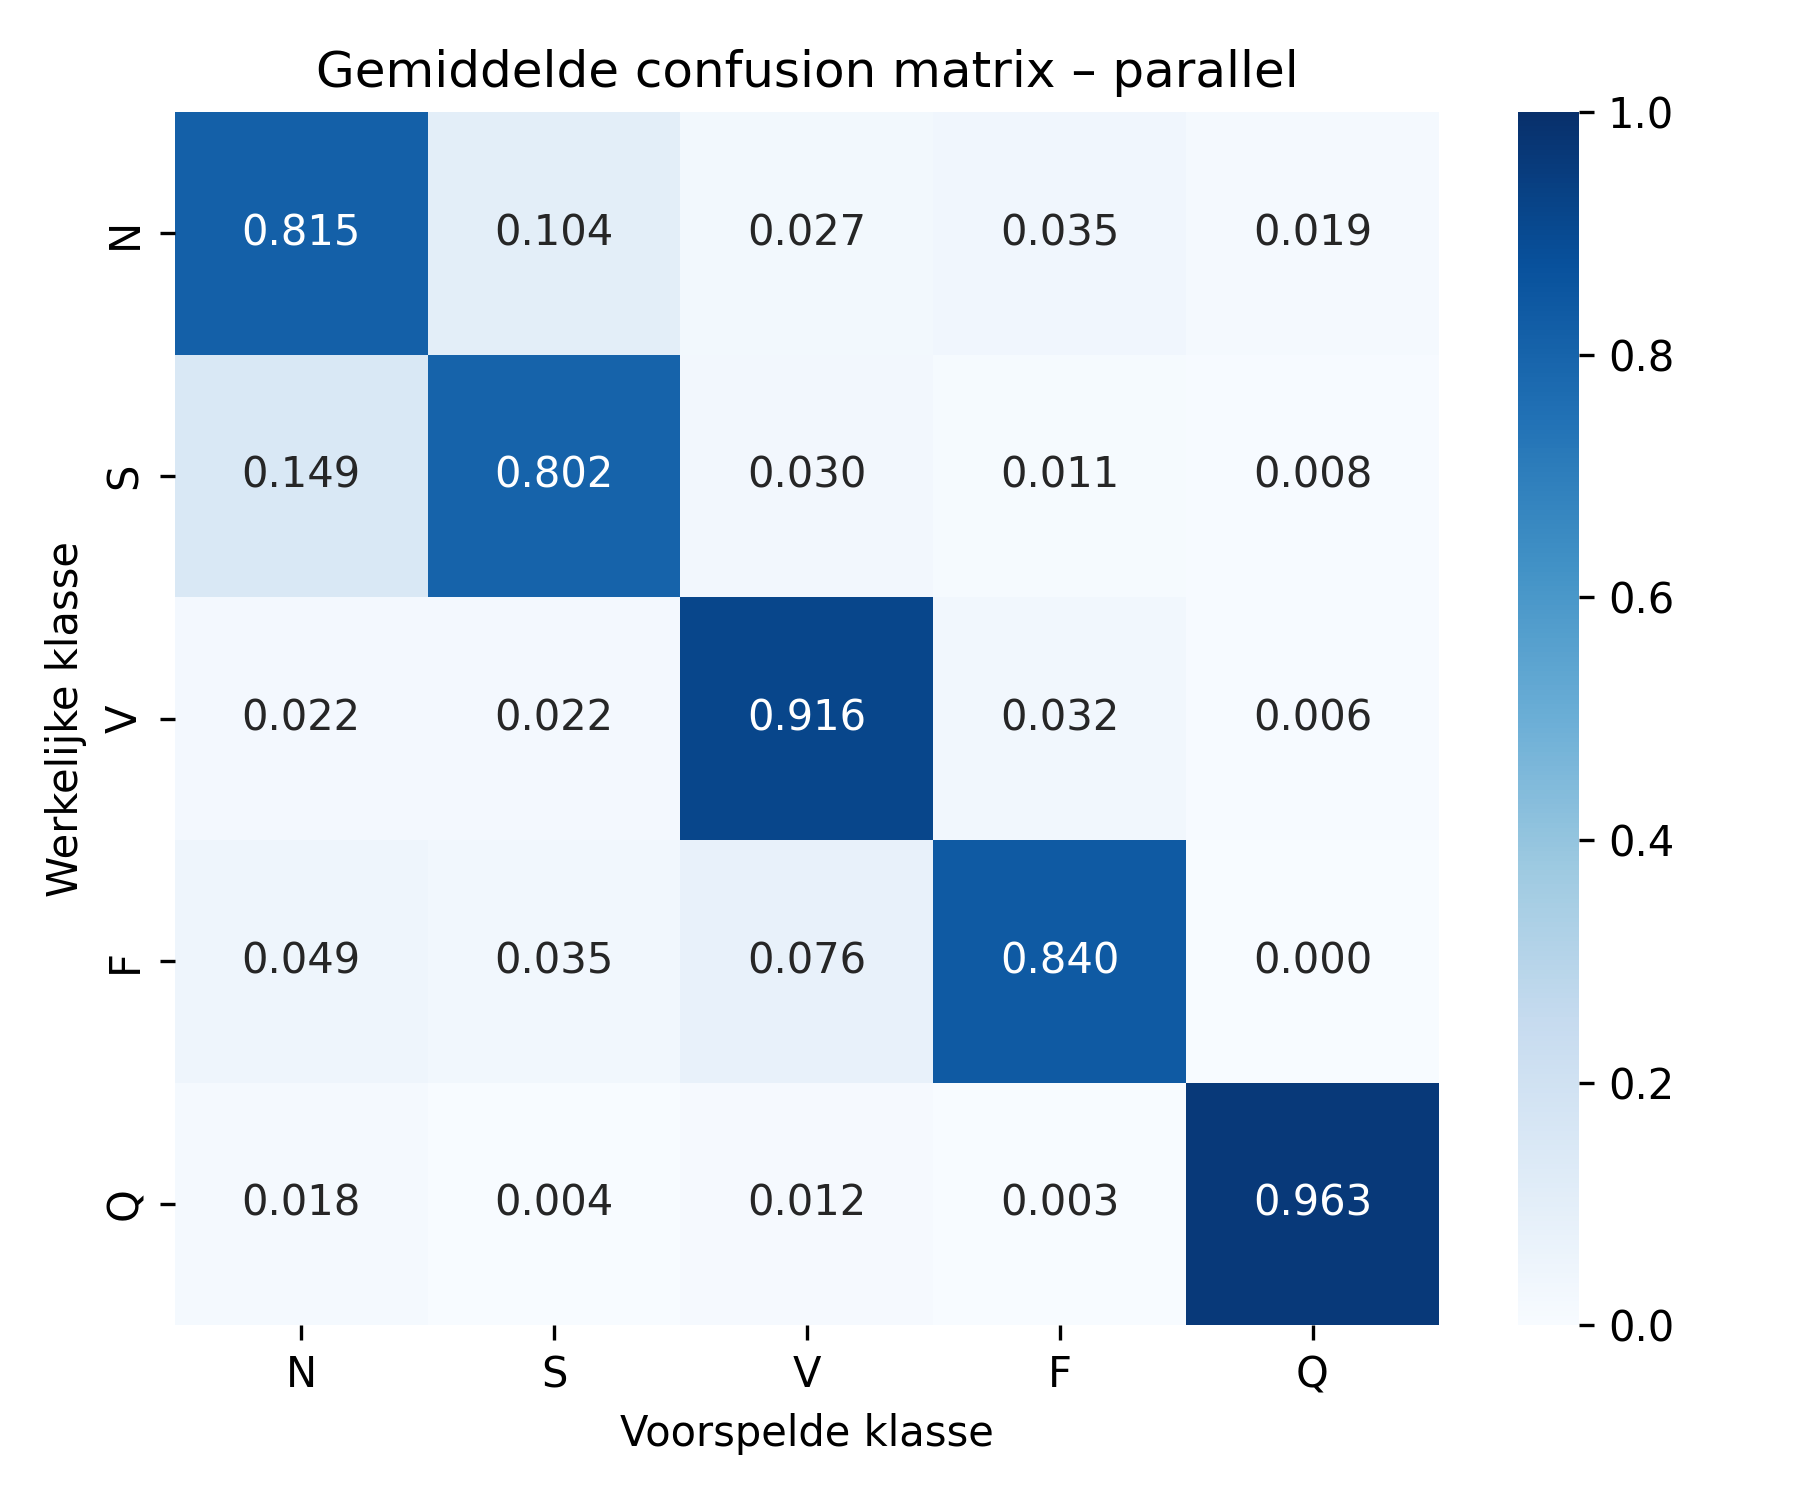
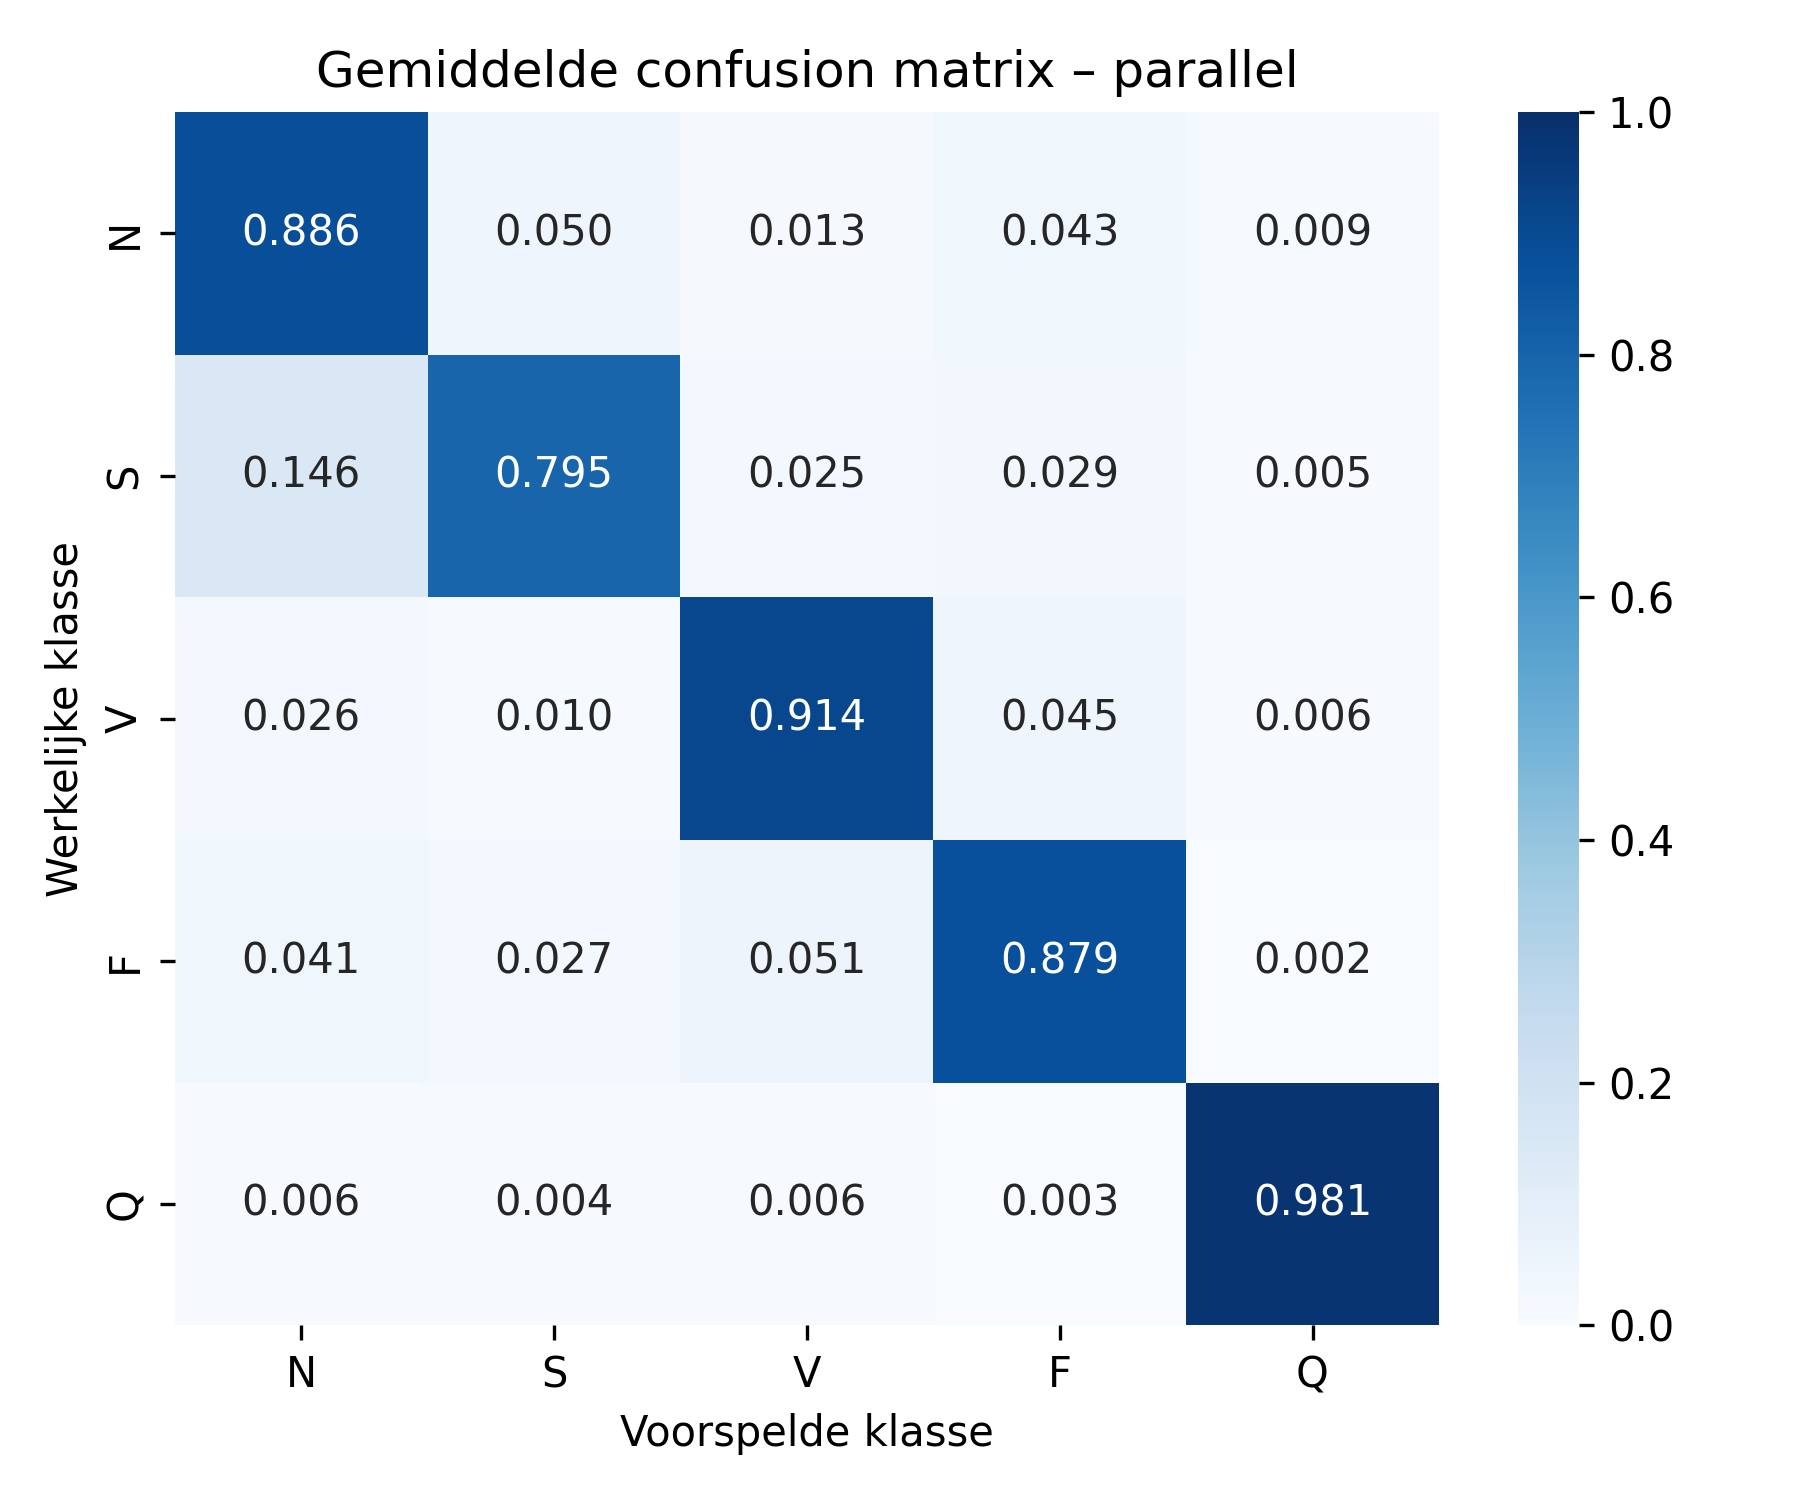
replace multiple runs by more epochs and add early stopping

diff --git a/src/helpers.py b/src/helpers.py
@@ -26,119 +26,98 @@ def run_experiment(
     loss_fn: Callable[..., torch.Tensor],
     class_weights: bool = False,
     parallel: bool = False,
-    runs: int = 3,
-    epochs: int = 5,
+    epochs: int = 15,
     learning_rate: float = 0.001,
     weight_decay: float = 0.0,
     filename: str | Path = "results/results.csv",
     seed: int = 42,
 ) -> pd.DataFrame:
-    """Train en test een experiment meerdere keren."""
+    """Train en test één experiment één keer."""
 
-    resultaten = []
-    confusion_matrices = []
+    run = 1
+    set_seed(seed)
+    print(f"\n{experiment_name} - run {run} (seed={seed})")
 
-    for run in range(1, runs + 1):
-        run_seed = seed + run - 1
-        set_seed(run_seed)
+    model = model_function()
+    settings = TrainerSettings(
+        epochs=epochs,
+        metrics=[Accuracy()],
+        logdir=f"logs/{safe_name(experiment_name)}/run_{run}",
+        train_steps=len(trainstreamer),
+        valid_steps=len(validstreamer),
+        reporttypes=[ReportTypes.TENSORBOARD],
+        optimizer_kwargs={
+            "lr": learning_rate,
+            "weight_decay": weight_decay,
+        },
+        earlystop_kwargs={
+            "save": False,
+            "verbose": True,
+            "patience": 3,
+        },
+    )
 
-        print(f"\n{experiment_name} - run {run} (seed={run_seed})")
+    trainer = Trainer(
+        model=model,
+        settings=settings,
+        loss_fn=loss_fn,
+        optimizer=torch.optim.Adam,
+        traindataloader=trainstreamer.stream(),
+        validdataloader=validstreamer.stream(),
+        scheduler=torch.optim.lr_scheduler.ReduceLROnPlateau,
+    )
 
-        model = model_function()
+    start = time.perf_counter()
+    trainer.loop()
+    training_time = time.perf_counter() - start
 
-        # Instellingen voor het trainen van het model.
-        settings = TrainerSettings(
-            epochs=epochs,
-            metrics=[
-                Accuracy(),
-            ],
-            logdir=f"logs/{safe_name(experiment_name)}/run_{run}",
-            train_steps=len(trainstreamer),
-            valid_steps=len(validstreamer),
-            reporttypes=[ReportTypes.TENSORBOARD],
-            optimizer_kwargs={
-                "lr": learning_rate,
-                "weight_decay": weight_decay,
-            },
-            earlystop_kwargs=None,
-        )
+    y_true, y_pred = predict(model, teststreamer)
+    recalls = recall_score(
+        y_true,
+        y_pred,
+        labels=range(5),
+        average=None,
+        zero_division=0,
+    )
+    accuracy = accuracy_score(y_true, y_pred)
+    macro_recall = recalls.mean()
 
-        trainer = Trainer(
-            model=model,
-            settings=settings,
-            loss_fn=loss_fn,
-            optimizer=torch.optim.Adam,
-            traindataloader=trainstreamer.stream(),
-            validdataloader=validstreamer.stream(),
-            scheduler=torch.optim.lr_scheduler.ReduceLROnPlateau,
-        )
+    result = {
+        "Experiment": experiment_name,
+        "Run": run,
+        "Seed": seed,
+        "Class Weights": class_weights,
+        "Parallel": parallel,
+        "Epochs": epochs,
+        "Learning Rate": learning_rate,
+        "Weight Decay": weight_decay,
+        "Accuracy": accuracy,
+        "Macro Recall": macro_recall,
+        "Training Time Seconds": training_time,
+    }
+    for label, recall in zip(CLASS_LABELS, recalls):
+        result[f"Recall_{label}"] = recall
 
-        # Trainingstijd meten.
-        start = time.perf_counter()
-        trainer.loop()
-        training_time = time.perf_counter() - start
-
-        # Model testen.
-        y_true, y_pred = predict(model, teststreamer)
-
-        recalls = recall_score(
+    save_result(result, filename)
+    plot_confusion_matrix(
+        [confusion_matrix(
             y_true,
             y_pred,
             labels=range(5),
-            average=None,
-            zero_division=0,
-        )
+            normalize="true",
+        )],
+        experiment_name,
+    )
 
-        accuracy = accuracy_score(y_true, y_pred)
-        macro_recall = recalls.mean()
+    print(f"Accuracy: {accuracy:.3f}")
+    print(f"Macro-recall: {macro_recall:.3f}")
+    print(f"Recall: {recalls.round(3)}")
+    print(f"Trainingstijd: {training_time:.1f} seconden")
 
-        # Confusion matrix opslaan voor het gemiddelde over alle runs.
-        confusion_matrices.append(
-            confusion_matrix(
-                y_true,
-                y_pred,
-                labels=range(5),
-                normalize="true",
-            )
-        )
-
-        # Resultaten van deze run.
-        result = {
-            "Experiment": experiment_name,
-            "Run": run,
-            "Seed": run_seed,
-            "Class Weights": class_weights,
-            "Parallel": parallel,
-            "Epochs": epochs,
-            "Learning Rate": learning_rate,
-            "Weight Decay": weight_decay,
-            "Accuracy": accuracy,
-            "Macro Recall": macro_recall,
-            "Training Time Seconds": training_time,
-        }
-
-        # Recall per ECG-klasse toevoegen.
-        for label, recall in zip(CLASS_LABELS, recalls):
-            result[f"Recall_{label}"] = recall
-
-        resultaten.append(result)
-        save_result(result, filename)
-
-        print(f"Accuracy: {accuracy:.3f}")
-        print(f"Macro-recall: {macro_recall:.3f}")
-        print(f"Recall: {recalls.round(3)}")
-        print(f"Trainingstijd: {training_time:.1f} seconden")
-
-    # Gemiddelde confusion matrix maken.
-    plot_confusion_matrix(confusion_matrices, experiment_name)
-
-    # Gemiddelde resultaten opslaan.
-    summary = save_summary(resultaten, experiment_name, Path(filename).parent)
-
-    print("\nGemiddelde resultaten:")
+    summary = save_summary([result], experiment_name, Path(filename).parent)
+    print("\nResultaat:")
     print(summary.to_string(index=False))
-
-    return pd.DataFrame(resultaten)
+    return pd.DataFrame([result])
 
 
 def predict(
@@ -194,7 +173,7 @@ def save_summary(
     experiment_name: str,
     output_dir: Path,
 ) -> pd.DataFrame:
-    """Slaat gemiddelde en standaardafwijking van de runs op."""
+    """Slaat de resultaten van één experiment op."""
 
     df = pd.DataFrame(resultaten)
 
@@ -210,12 +189,9 @@ def save_summary(
         "Runs": len(df),
     }
 
-    # Gemiddelde en standaardafwijking berekenen.
+    # De samenvatting bevat de ene uitgevoerde meting.
     for kolom in kolommen:
         summary[f"{kolom} Mean"] = df[kolom].mean()
-        summary[f"{kolom} Std"] = (
-            df[kolom].std() if len(df) > 1 else 0.0
-        )
 
     output_dir.mkdir(parents=True, exist_ok=True)
 
@@ -233,7 +209,7 @@ def plot_confusion_matrix(
     confusion_matrices: list[np.ndarray],
     experiment_name: str,
 ) -> None:
-    """Maakt de gemiddelde confusion matrix van alle runs."""
+    """Maakt de confusion matrix van het experiment."""
 
     mean_cm = np.mean(confusion_matrices, axis=0)
 

diff --git a/main.py b/main.py
@@ -139,7 +139,6 @@ def run_standard_experiment(args: Namespace) -> None:
         ),
         class_weights=weighted,
         parallel=parallel,
-        runs=args.runs,
         epochs=args.epochs,
         learning_rate=args.learning_rate,
         weight_decay=args.weight_decay,
@@ -230,7 +229,6 @@ def run_final(args: Namespace) -> None:
         loss_fn=torch.nn.CrossEntropyLoss(weight=weights),
         class_weights=True,
         parallel=True,
-        runs=args.runs,
         epochs=args.epochs,
         learning_rate=float(best["config/learning_rate"]),
         weight_decay=float(best["config/weight_decay"]),
@@ -261,8 +259,7 @@ def parse_args() -> Namespace:
     )
 
     # Algemene instellingen.
-    parser.add_argument("--epochs", type=int, default=5)
-    parser.add_argument("--runs", type=int, default=3)
+    parser.add_argument("--epochs", type=int, default=15)
     parser.add_argument("--batch-size", type=int, default=32)
     parser.add_argument("--learning-rate", type=float, default=0.001)
     parser.add_argument("--weight-decay", type=float, default=0.0)

diff --git a/src/tuning.py b/src/tuning.py
@@ -21,7 +21,7 @@ def run_ray_tuning(
     valid_dataset: Dataset,
     class_weights: torch.Tensor,
     num_samples: int = 20,
-    max_epochs: int = 10,
+    max_epochs: int = 15,
     output_dir: str = "ray_results",
 ) -> pd.DataFrame:
     """Optimaliseer de parallelle 2D-CNN op basis van macro-recall op de validatieset."""

diff --git a/README.md b/README.md
@@ -58,19 +58,18 @@ uv run python main.py --experiment weighted_2d
 # Parallel model
 uv run python main.py --experiment parallel
 
-# Ray Tune (standaard 20 configuraties, 10 epochs per trial aanbevolen)
-uv run python main.py --experiment tune --epochs 10 --num-samples 20
+# Ray Tune (20 configuraties, maximaal 15 epochs per trial)
+uv run python main.py --experiment tune --epochs 15 --num-samples 20
 
 # Train/evalueer beste tuningconfiguratie op de officiële testset
-uv run python main.py --experiment final --epochs 15 --runs 3
+uv run python main.py --experiment final --epochs 15
 ```
 
 Instellingen kunnen via flags worden aangepast:
 
 ```bash
 uv run python main.py --experiment parallel \
-  --epochs 5 \
-  --runs 3 \
+  --epochs 15 \
   --batch-size 32 \
   --learning-rate 0.001 \
   --filters 16 \
@@ -94,6 +93,9 @@ De tuning gebruikt:
 
 De eerste parallelle route blijft vast op **3×3**. Ray Tune selecteert op macro-recall van de validation set. ASHA wordt gebruikt om zwakke configuraties vroegtijdig te stoppen.
 
+De standaardexperimenten gebruiken early stopping met een patience van 3 epochs.
+Ray Tune gebruikt hiervoor ASHA met een grace period van 3 epochs.
+
 ## Resultaten
 
 Experimenten schrijven resultaten weg naar:
@@ -114,8 +116,6 @@ Per run worden onder andere opgeslagen:
 - recall per klasse N/S/V/F/Q;
 - trainingstijd;
 - relevante traininginstellingen.
-
-Bij meerdere runs wordt ook een CSV met gemiddelde en standaarddeviatie gemaakt.
 
 ## Projectstructuur
 
